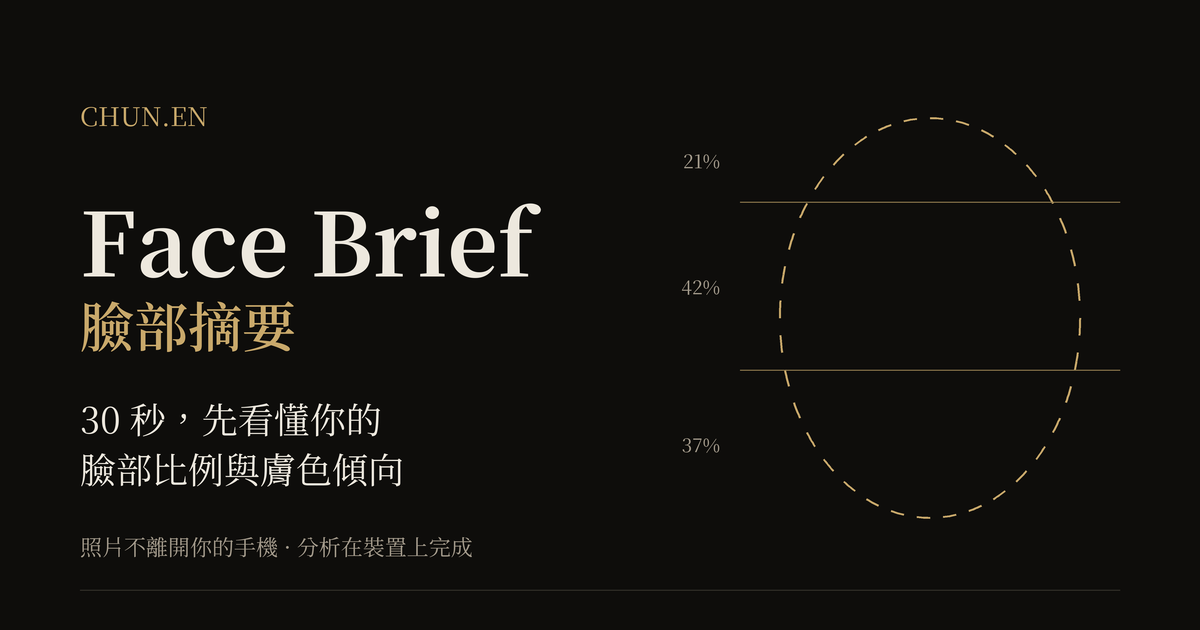
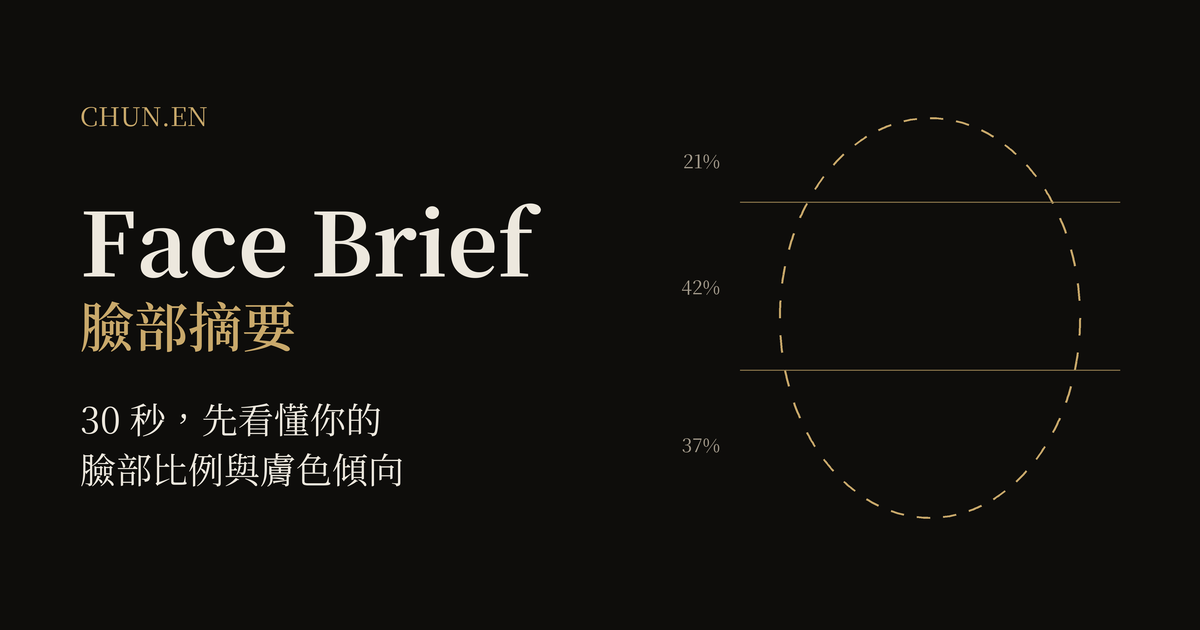
v1.6: 刪重複句（隱私句只留入口一處），OG 圖去底行

Changed region(s): [[0.0617, 0.8444, 0.4008, 0.9048]]

diff --git a/index.html b/index.html
@@ -5,12 +5,12 @@
 <meta name="viewport" content="width=device-width, initial-scale=1, viewport-fit=cover">
 <meta name="robots" content="noindex, nofollow">
 <title>Face Brief 臉部摘要｜CHUN.EN</title>
-<meta name="description" content="30 秒，用手機鏡頭看懂你的臉部比例與膚色傾向。照片不離開你的裝置，分析在瀏覽器本地完成。CHUN.EN 形象美學。">
+<meta name="description" content="30 秒，用手機鏡頭看懂你的臉部比例與膚色傾向。CHUN.EN 形象美學。">
 <link rel="canonical" href="https://face.chunen.tw/">
 <meta property="og:type" content="website">
 <meta property="og:site_name" content="CHUN.EN">
 <meta property="og:title" content="Face Brief 臉部摘要｜30 秒看懂你的臉部比例">
-<meta property="og:description" content="用手機鏡頭量出臉部比例、對稱度與膚色傾向，照片不離開你的裝置。CHUN.EN 形象美學。">
+<meta property="og:description" content="用手機鏡頭量出臉部比例、對稱度與膚色傾向。CHUN.EN 形象美學。">
 <meta property="og:url" content="https://face.chunen.tw/">
 <meta property="og:image" content="https://face.chunen.tw/og-v2.png">
 <meta property="og:image:width" content="1200">
@@ -142,7 +142,6 @@
         <button class="btn ghost" data-sample="sample2.jpg">範例照片 B（測試用）</button>
       </div>
       <input type="file" id="file" accept="image/*">
-      <p class="privacy">測試版說明：本頁為內部原型，未接任何後端與名單系統。臉部特徵點模型（MediaPipe FaceLandmarker）於首次使用時自裝置端載入，約需數秒。</p>
     </section>
 
     <!-- 掃描 -->
@@ -212,7 +211,7 @@
 
       <div class="again"><button id="btn-again">重新測一次</button></div>
 
-      <p class="disclaim">本快掃於數秒內完成簡易幾何測量，結果受拍攝角度與光線影響，僅供參考，不構成任何容貌評價。完整報告由顧問進行更深入的判讀，兩者結果可能不同，以顧問判讀為準。照片僅於你的裝置上處理，離開此頁即消失。</p>
+      <p class="disclaim">結果受拍攝角度與光線影響，僅供參考，不構成容貌評價；以顧問判讀為準。</p>
     </section>
 
   </main>
@@ -220,7 +219,7 @@
 
 <div class="consent" id="consent" hidden>
   <div class="box">
-    <p>本頁使用 Cookie 統計流量，幫我們了解這個工具有沒有用。臉部影像不在統計範圍，也不會離開你的裝置。</p>
+    <p>本頁使用 Cookie 統計流量。</p>
     <div class="row"><button id="consent-min">僅必要</button><button class="ok" id="consent-ok">接受</button></div>
   </div>
 </div>
